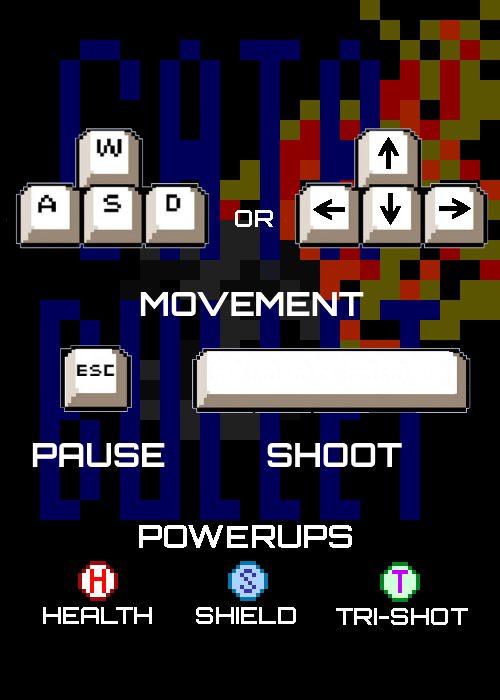
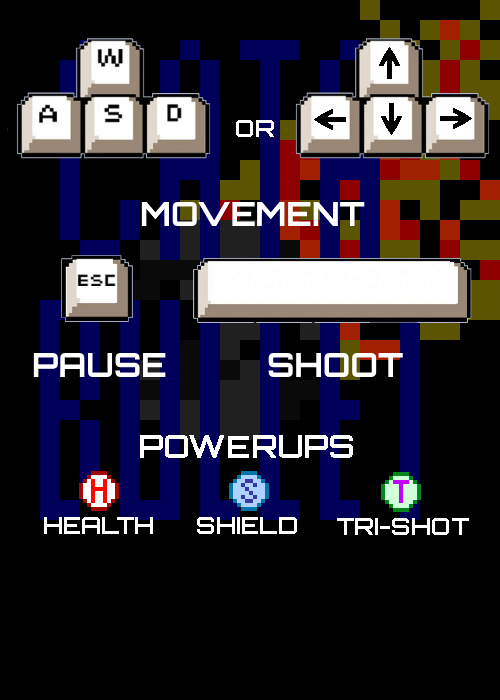
Sounds, Images, Mainmenu
Deleted Shippowerup backup sound, updated main menu for button
troubleshooting, updated instructions, changed a little in controller

diff --git a/MainMenu.py b/MainMenu.py
@@ -16,8 +16,6 @@ class Menu:
             self.surface = surface
             self.set_rect()
             self.draw()
-            pygame.mixer.music.load("sounds/menuMusic.mp3")
-            pygame.mixer.music.play(-1)
                 
         def draw(self):
             self.set_rend()
@@ -57,7 +55,6 @@ class Menu:
                 if self.options[0].hovered == True:
                     if event.type == MOUSEBUTTONDOWN:
                         pygame.mouse.set_visible(True)
-                        pygame.mixer.music.stop()
 
                         difficultyFont = pygame.font.Font(None, 40)
                         
@@ -123,45 +120,73 @@ class Menu:
                                             break
                                         elif action == "Quit":
                                             return
-                                    #pygame.quit()
-                    if self.options[1].hovered == True:
-                        if event.type == MOUSEBUTTONDOWN:
-                            pygame.mouse.set_visible(True)
+                if self.options[1].hovered == True:
+                    if event.type == MOUSEBUTTONDOWN:
+                        pygame.mouse.set_visible(True)
 
-                            creditFont = pygame.font.Font(None, 40)
-                            
-                            back = self.Option("BACK", (200, 580), creditFont, self.surface)
-            
-                            self.creditOptions = [back]
-                            self.CreditsScreen = pygame.image.load("images/Credits.png")
-                            self.CreditsScreen.convert()
-                            self.surface.blit(self.CreditsScreen, (0, 0))
-                            
-                            credited = True     
-                            while credited == True:
-                                pygame.event.pump()
-                                pygame.mouse.set_visible(True)
-                                for option in self.creditOptions:
-                                    if option.rect.collidepoint(pygame.mouse.get_pos()):
-                                        option.hovered = True
-                                    else:
-                                        option.hovered = False
-                                    option.draw()
-                                pygame.display.update()
-                                for event in pygame.event.get():
-                                    if event.type == QUIT:
-                                        return
-                                    if self.creditOptions[0].hovered == True:
-                                        if event.type == MOUSEBUTTONDOWN:
-                                            #pygame.mouse.set_visible(True)
-                                            #break
-                                            credited = False
-                        self.surface.blit(self.TitleScreen, (0, 0))
+                        instructFont = pygame.font.Font(None, 40)
                         
+                        back = self.Option("BACK", (200, 580), instructFont, self.surface)
+        
+                        self.instructOptions = [back]
+                        self.instructScreen = pygame.image.load("images/Instructions.png")
+                        self.instructScreen.convert()
+                        self.surface.blit(self.instructScreen, (0, 0))
+                        
+                        instructed = True     
+                        while instructed == True:
+                            pygame.event.pump()
+                            pygame.mouse.set_visible(True)
+                            for option in self.instructOptions:
+                                if option.rect.collidepoint(pygame.mouse.get_pos()):
+                                    option.hovered = True
+                                else:
+                                    option.hovered = False
+                                option.draw()
+                            pygame.display.update()
+                            for event in pygame.event.get():
+                                if event.type == QUIT:
+                                    return
+                                if self.instructOptions[0].hovered == True:
+                                    if event.type == MOUSEBUTTONDOWN:
+                                        instructed = False
+                    self.surface.blit(self.TitleScreen, (0, 0))
+                    
                 if self.options[2].hovered == True:
                     if event.type == MOUSEBUTTONDOWN:
                         pygame.mouse.set_visible(True)
-                        #pygame.quit()
+
+                        creditFont = pygame.font.Font(None, 40)
+                        
+                        back = self.Option("BACK", (200, 580), creditFont, self.surface)
+        
+                        self.creditOptions = [back]
+                        self.CreditsScreen = pygame.image.load("images/Credits.png")
+                        self.CreditsScreen.convert()
+                        self.surface.blit(self.CreditsScreen, (0, 0))
+                        
+                        credited = True     
+                        while credited == True:
+                            pygame.event.pump()
+                            pygame.mouse.set_visible(True)
+                            for option in self.creditOptions:
+                                if option.rect.collidepoint(pygame.mouse.get_pos()):
+                                    option.hovered = True
+                                else:
+                                    option.hovered = False
+                                option.draw()
+                            pygame.display.update()
+                            for event in pygame.event.get():
+                                if event.type == QUIT:
+                                    return
+                                if self.creditOptions[0].hovered == True:
+                                    if event.type == MOUSEBUTTONDOWN:
+                                        credited = False
+                    self.surface.blit(self.TitleScreen, (0, 0))
+                        
+                if self.options[3].hovered == True:
+                    if event.type == MOUSEBUTTONDOWN:
+                        pygame.mouse.set_visible(True)
                         return
                     
     def __init__(self, controller):
@@ -176,10 +201,11 @@ class Menu:
         self.surface = controller.screen
 
         start = self.Option("START", (200, 540), menuFont, self.surface)
-        credits = self.Option("CREDITS", (182, 580), menuFont, self.surface)
-        exit = self.Option("EXIT", (210, 620), menuFont, self.surface)
+        instructions = self.Option("INSTRUCTIONS", (138, 580), menuFont, self.surface)
+        credits = self.Option("CREDITS", (182, 620), menuFont, self.surface)
+        exit = self.Option("EXIT", (210, 660), menuFont, self.surface)
         
-        self.options = [start, credits, exit]
+        self.options = [start, instructions, credits, exit]
         self.TitleScreen = pygame.image.load("images/Title.png")
         self.TitleScreen.convert()
         self.surface.blit(self.TitleScreen, (0, 0))

diff --git a/Controller.py b/Controller.py
@@ -64,7 +64,7 @@ class Controller(pygame.sprite.Sprite):
         pause = False
         multiplier = 1
         sc = 0
-
+        pygame.mixer.stop()
         pygame.mixer.music.load("sounds/gameMusic.mp3")
         pygame.mixer.music.play(-1) 
 
@@ -81,7 +81,7 @@ class Controller(pygame.sprite.Sprite):
         enemyDeath = pygame.mixer.Sound("sounds/enemyDeath.wav")
         shipShieldDeath = pygame.mixer.Sound("sounds/shipShieldDeath.wav")
         shipDeath = pygame.mixer.Sound("sounds/shipDeath.wav")
-        #shipPowerUp = pygame.mixer.Sound("sounds/shipPowerUp.wav")
+        shipPowerUp = pygame.mixer.Sound("sounds/shipPowerUp.wav")
         bossFight = pygame.mixer.Sound("sounds/bossFight.wav")
 
         scoreFont = pygame.font.Font(None, 40)    
